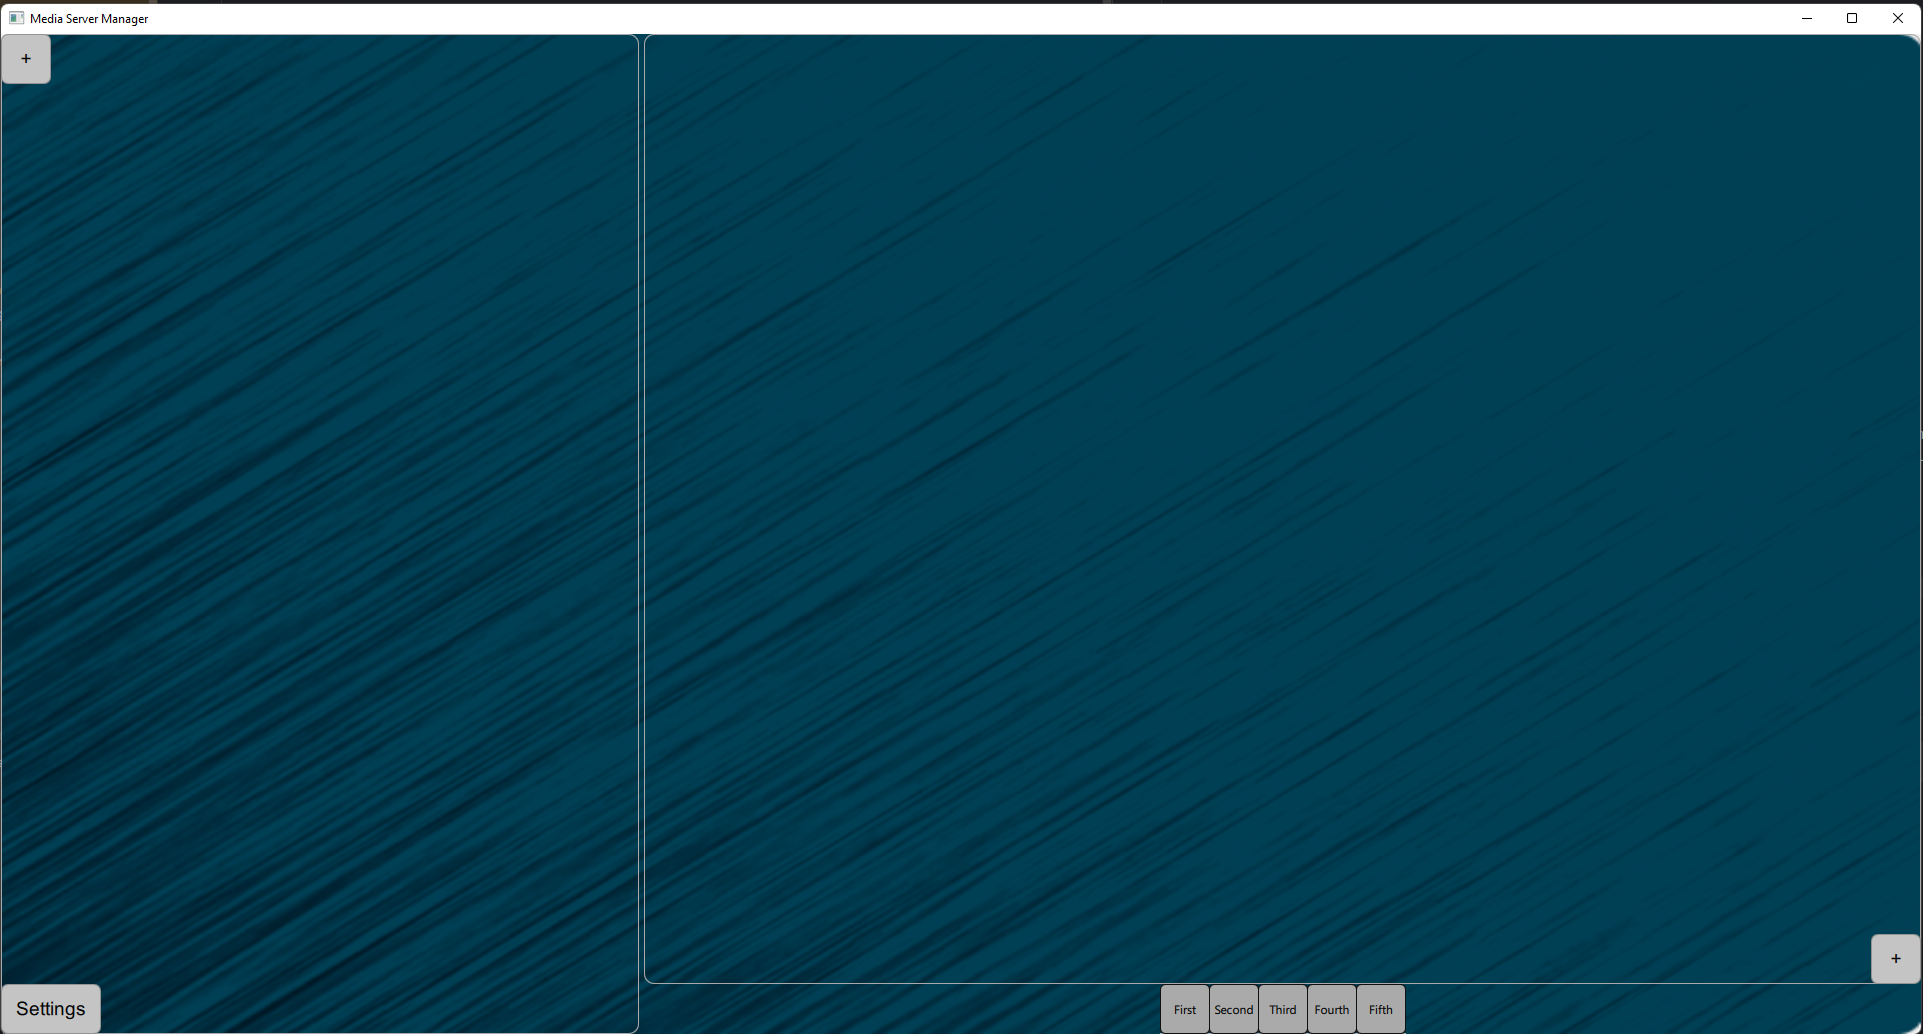
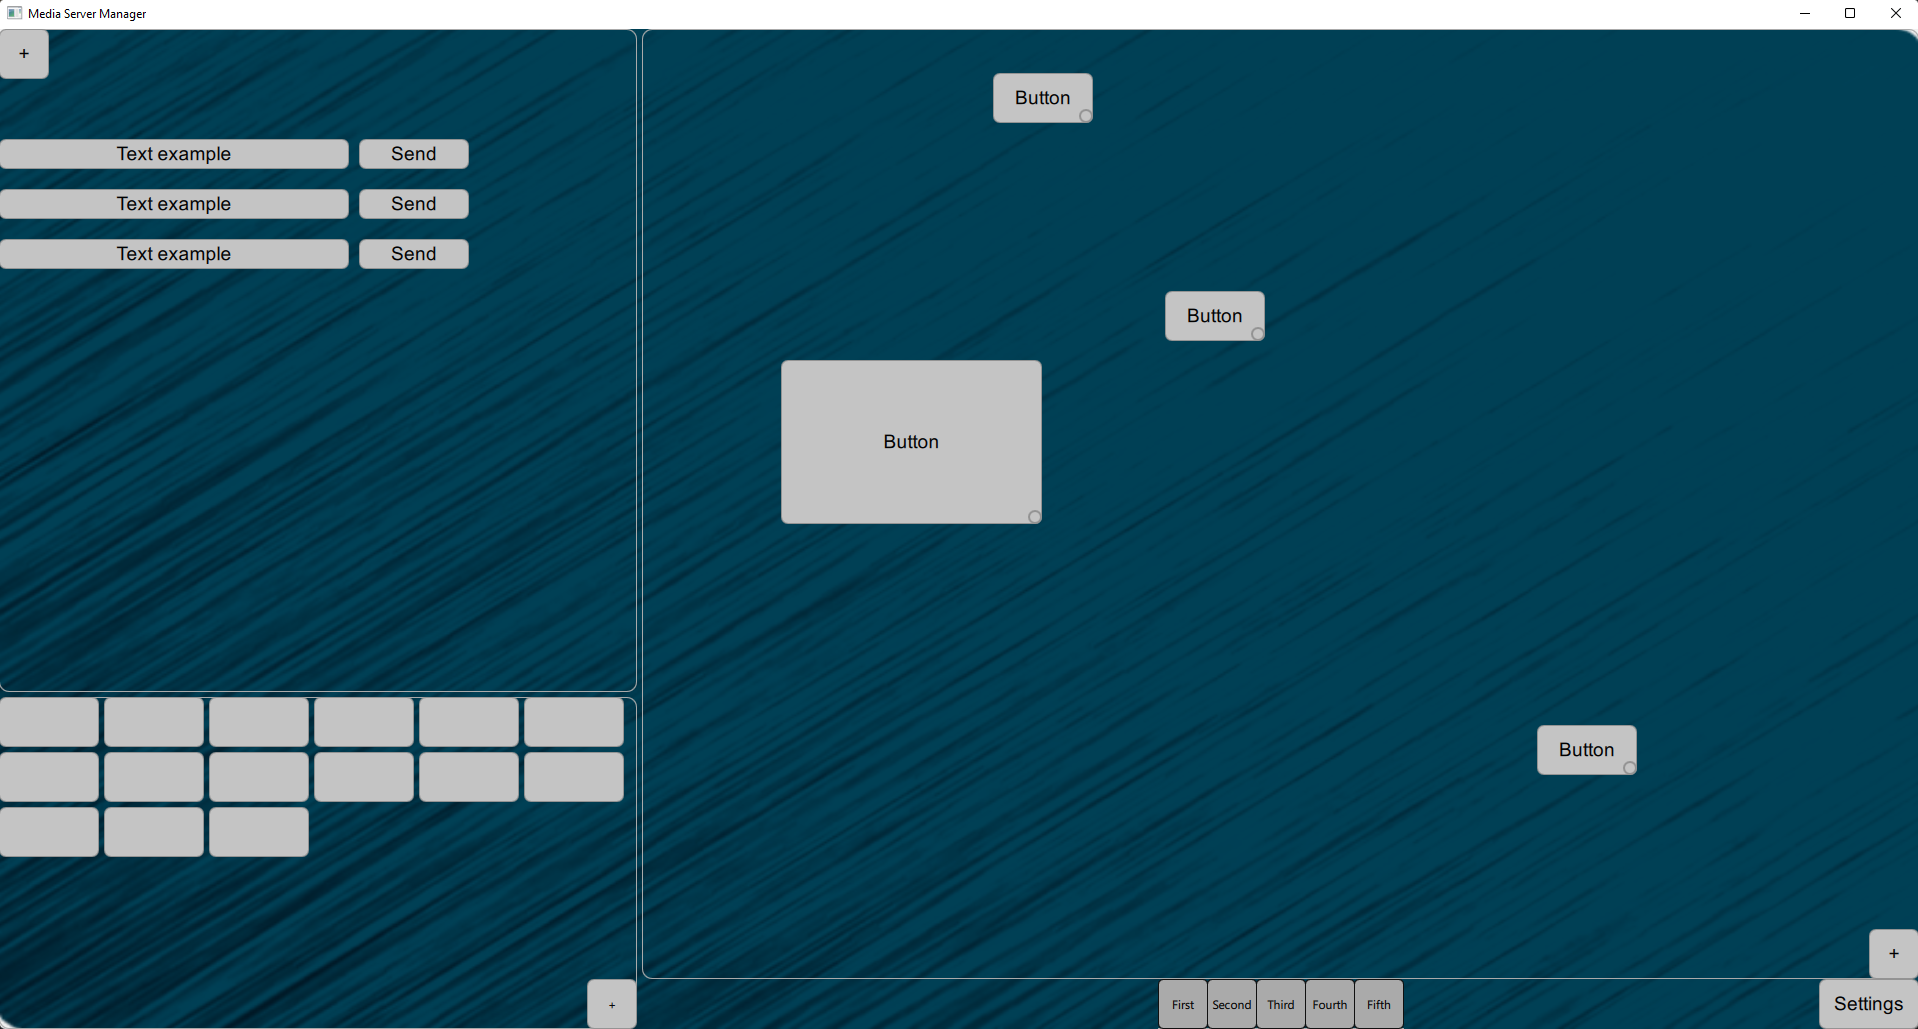
quick buttons scope

diff --git a/MediaServerManager/Frontend/Widgets/QuickButtonsScope.qml b/MediaServerManager/Frontend/Widgets/QuickButtonsScope.qml
@@ -2,56 +2,60 @@ import QtQuick
 import QtQuick.Controls
 import QtQuick.Layouts
 import "qrc:/JS/itemCreator.js" as ItemCreator
+import "qrc:/Controls" as CustomControls
+import "qrc:/Backgrounds" as CustomBackgrounds
 
 /**
  *  Item root
- *  - var keys: ["1", "2", "3", "QTY", "4", "6", "5", "Disc", "7", "8", "9", "Price", "+/-", "0", ".", "<="]
  *      | GridView grid
- *      - int columns: 4
- *      - int rows: 4
- *          | Rectangle
- *              | Text
+ *          | Repeater
+ *          | ListModel quickButtonModel
+ *      | Button addQuickButtonButton
  */
 Item {
     id: root
+    anchors.fill: parent
 
-    property var keys: ["1", "2", "3", "QTY", "4", "6", "5", "Disc", "7", "8", "9", "Price", "+/-", "0", ".", "<="]
-
-    height: 500
-    width: 500
-
-    GridView {
+    Grid {
         id: grid
-
-        readonly property int columns: 4
-        readonly property int rows: 4
-
         anchors.fill: parent
-        cellHeight: height / rows
-        cellWidth: width / columns
-        model: keys
+        columns: 6
+        rows: 5
+        spacing: 5
 
-        delegate: Rectangle {
-            height: grid.cellHeight
-            width: grid.cellWidth
+        Repeater {
+            model: quickButtonModel
 
-            Text {
-                text: keys[index]
+            delegate: CustomControls.ManagementButton {
+                text: _text
+            }
+        }
+        ListModel {
+            id: quickButtonModel
+        }
+    }
+    Button {
+        id: addQuickButtonButton
+        height: 50
+        text: "+"
+        width: 50
+
+        background: CustomBackgrounds.ButtonBackgroundRectangle {
+            showCircle: false
+        }
+
+        onClicked: {
+            const rangeCheck = quickButtonModel.count < (grid.columns * grid.rows);
+            if (rangeCheck) {
+                quickButtonModel.append({
+                        "_text": ""
+                    });
             }
         }
 
-        Button {
-            height: 50
-            width: 50
-
-            background: Rectangle {
-                anchors.fill: parent
-                color: "#0a0"
-            }
-
-            onClicked: {
-                ItemCreator.createNewItem();
-            }
+        anchors {
+            bottom: parent.bottom
+            right: parent.right
         }
     }
 }

diff --git a/MediaServerManager/Frontend/main.qml b/MediaServerManager/Frontend/main.qml
@@ -39,7 +39,7 @@ ApplicationWindow {
             columns: 20
             rows: 3
 
-            CustomWidgets.QuickButtonsScope {
+            Rectangle {
                 Layout.column: 1
                 Layout.columnSpan: 3
                 Layout.fillHeight: true
@@ -47,6 +47,15 @@ ApplicationWindow {
                 Layout.preferredHeight: 1
                 Layout.preferredWidth: 2
                 Layout.row: 2
+                color: "#0000ffff"
+                radius: 10
+
+                border {
+                    color: "#AAA"
+                    width: 1
+                }
+                CustomWidgets.QuickButtonsScope {
+                }
             }
             CustomWidgets.QuickTitleScope {
                 Layout.column: 1
@@ -83,7 +92,7 @@ ApplicationWindow {
 
             anchors {
                 bottom: parent.bottom
-                left: parent.left
+                right: parent.right
             }
             MouseArea {
                 anchors.fill: parent
